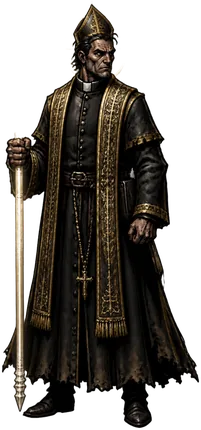
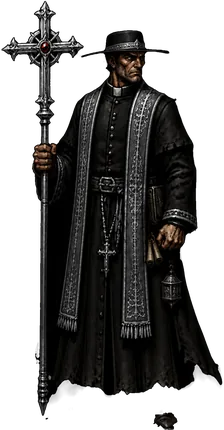
Exorciste : armure palier V repeinte (étole d'argent, reliquaire, sans aura) — tous les paliers V refaits
Claude-Session: https://claude.ai/code/session_01XuxscubMSQPeew8BrSfQGu

diff --git a/index.html b/index.html
@@ -242,7 +242,7 @@ p{margin:6px 0;line-height:1.45}
 <div id="boot"><div class="bootin"><img src="assets/ui_emblem.webp" alt="" onerror="this.remove()"><h1>Couronne de Cendres</h1><div class="bootbar"><i></i></div><div class="boottxt">Les braises s'allument…</div><button class="btn ghost sm" id="bootskip" style="display:none">Continuer sans attendre</button></div></div>
 <div id="toasts" aria-live="polite"></div>
 <script>window.CC_SW = 1;</script><script>
-window.ART_LIST=["bg_abime","bg_bastion","bg_bastion2","bg_bastion_port","bg_bastion_port_src","bg_bourg","bg_catacombes","bg_cimes","bg_citadelle","bg_cite","bg_foret","bg_marais","bg_mines","bg_terres","bg_titre","bg_trone","bg_worldmap","bld_academie","bld_academie_2","bld_academie_3","bld_chapelle","bld_chapelle_2","bld_chapelle_3","bld_fonderie","bld_fonderie_2","bld_fonderie_3","bld_forge","bld_forge_2","bld_forge_3","bld_menagerie","bld_menagerie_2","bld_menagerie_3","bld_porte","bld_taverne","bld_taverne_2","bld_taverne_3","hero_arbaletriere_chasseresse","hero_arbaletriere_t1","hero_arbaletriere_t2","hero_arbaletriere_t3","hero_arbaletriere_t4","hero_arbaletriere_t5","hero_arbaletriere_tireuse_elite","hero_berserker_chef_guerre","hero_berserker_ecorcheur","hero_berserker_t1","hero_berserker_t2","hero_berserker_t3","hero_berserker_t4","hero_berserker_t5","hero_chasseur_sorcieres_purificateur","hero_chasseur_sorcieres_t1","hero_chasseur_sorcieres_t2","hero_chasseur_sorcieres_t3","hero_chasseur_sorcieres_t4","hero_chasseur_sorcieres_t5","hero_chasseur_sorcieres_traqueur","hero_exorciste_confesseur","hero_exorciste_penitent","hero_exorciste_t1","hero_exorciste_t2","hero_exorciste_t3","hero_exorciste_t4","hero_exorciste_t5","hero_gardien_runes_forge_tonnerre","hero_gardien_runes_t1","hero_gardien_runes_t2","hero_gardien_runes_t3","hero_gardien_runes_t4","hero_gardien_runes_t5","hero_gardien_runes_thane_pierre","hero_hallebardier_garde_roi","hero_hallebardier_lansquenet","hero_hallebardier_t1","hero_hallebardier_t2","hero_hallebardier_t3","hero_hallebardier_t4","hero_hallebardier_t5","hero_medecin_peste_apothicaire","hero_medecin_peste_chirurgien","hero_medecin_peste_t1","hero_medecin_peste_t2","hero_medecin_peste_t3","hero_medecin_peste_t4","hero_medecin_peste_t5","hero_menestrel_chantre","hero_menestrel_heraut","hero_menestrel_t1","hero_menestrel_t2","hero_menestrel_t3","hero_menestrel_t4","hero_menestrel_t5","hero_necromancien_liche","hero_necromancien_maitre_tombes","hero_necromancien_t1","hero_necromancien_t2","hero_necromancien_t3","hero_necromancien_t4","hero_necromancien_t5","hero_ombre_assassin","hero_ombre_ombre_sang","hero_ombre_t1","hero_ombre_t2","hero_ombre_t3","hero_ombre_t4","hero_ombre_t5","hero_pretresse_martyre","hero_pretresse_sainte","hero_pretresse_t1","hero_pretresse_t2","hero_pretresse_t3","hero_pretresse_t4","hero_pretresse_t5","hero_pyromancien_archimage","hero_pyromancien_demoniste","hero_pyromancien_t1","hero_pyromancien_t2","hero_pyromancien_t3","hero_pyromancien_t4","hero_pyromancien_t5","hero_revenant_seigneur_sang","hero_revenant_spectre","hero_revenant_t1","hero_revenant_t2","hero_revenant_t3","hero_revenant_t4","hero_revenant_t5","hero_sorciere_druidesse","hero_sorciere_sorciere_noire","hero_sorciere_t1","hero_sorciere_t2","hero_sorciere_t3","hero_sorciere_t4","hero_sorciere_t5","hero_templier_bastion","hero_templier_inquisiteur","hero_templier_t1","hero_templier_t2","hero_templier_t3","hero_templier_t4","hero_templier_t5","map_boss","map_camp","map_combat","map_elite","map_event","map_shop","map_treasure","mon_abbe","mon_alpha","mon_anguille_ombre","mon_araignee","mon_archer","mon_archer_os","mon_archonte_cendres","mon_boucher","mon_bouffon_roi","mon_bourreau","mon_brigand","mon_cardinal","mon_champion_roi","mon_charognard","mon_chauve_souris","mon_chevalier_couronne","mon_chevalier_dechu","mon_chevalier_os","mon_chevaucheur_calcine","mon_chien_cendre","mon_coeur_montagne","mon_colosse_braise","mon_contremaitre","mon_crabe_geant","mon_crapaud","mon_cultiste","mon_devoreur_lumiere","mon_diablotin","mon_docteur","mon_dryade","mon_follet","mon_fondeur_maudit","mon_garde_spectral","mon_gargouille","mon_golem","mon_golem_fer","mon_goule","mon_hallebardier_os","mon_heraut_neant","mon_homme_poisson","mon_horreur","mon_hydre","mon_inquisiteur","mon_jarl_mort","mon_leviathan","mon_liche","mon_loup","mon_loup_givre","mon_matrone_os","mon_mere_noyes","mon_mere_ronces","mon_mineur_possede","mon_moine_flagellant","mon_necrophage","mon_noye","mon_noyee_chantante","mon_oeil","mon_ogre","mon_pecheur","mon_pendu","mon_penitent_ardent","mon_pestifere","mon_pretre_abysses","mon_pretre_suie","mon_prieur","mon_profond","mon_rat","mon_reine_hiver","mon_reine_sabbat","mon_revenant_glace","mon_roi","mon_roi_noye","mon_roi_vide","mon_sangsue","mon_sans_nom","mon_sans_visage","mon_sentinelle_obsidienne","mon_seraphin_dechu","mon_sorcier_givre","mon_sorciere_marais","mon_spectre","mon_spectre_blizzard","mon_squelette","mon_thuriferaire","mon_troll_givre","mon_ver_roche","pet_araignee","pet_araignee_evo","pet_belette","pet_cerf","pet_cerf_evo","pet_chat_noir","pet_chat_noir_evo","pet_chauve_souris","pet_chauve_souris_evo","pet_chouette","pet_chouette_evo","pet_corbeau","pet_corbeau_evo","pet_crapaud","pet_crapaud_evo","pet_drake","pet_drake_evo","pet_feu_follet","pet_feu_follet_evo","pet_gargouille","pet_gargouille_evo","pet_griffon","pet_griffon_evo","pet_loup","pet_loup_evo","pet_molosse","pet_molosse_evo","pet_ours","pet_ours_evo","pet_renard","pet_renard_evo","pet_salamandre","pet_salamandre_evo","pet_sanglier","pet_sanglier_evo","pet_vipere","pet_vipere_evo","por_anselme","por_capitaine","por_maugrin","por_ysolde","tr_amulette_sel","tr_bague_fer","tr_cape_brume","tr_chapelet","tr_cloche_morte","tr_coeur_braise","tr_coeur_roi","tr_couronne_epines","tr_crane_saint","tr_croc_vampire","tr_dent_loup","tr_ecu_brise","tr_fiole_sang","tr_fragment_couronne","tr_gant_bourreau","tr_griffe_ombre","tr_herbe_rare","tr_oeil_abime","tr_oeil_verre","tr_phylactere","tr_pierre_ame","tr_plume_corbeau","tr_relique_aube","tr_sablier","tr_sceau_rouge","ui_aim","ui_amulet","ui_anvil","ui_armor","ui_atlas","ui_axe","ui_back","ui_bag","ui_banner","ui_bark","ui_bell","ui_bird","ui_bless","ui_blood","ui_bolt","ui_bones","ui_book","ui_boom","ui_camp","ui_castle","ui_chain","ui_chapel","ui_charge","ui_chest","ui_claw","ui_cleanse","ui_cloak","ui_coin","ui_crown","ui_cup","ui_curse","ui_dagger","ui_daily","ui_dice","ui_drain","ui_ember","ui_emblem","ui_essence","ui_eye","ui_fang","ui_fear","ui_feather","ui_fire","ui_flames","ui_flare","ui_flask","ui_flee","ui_frost","ui_furnace","ui_gear","ui_gem","ui_ghost","ui_glove","ui_guard","ui_hammer","ui_hand","ui_heal","ui_heart","ui_helm","ui_herb","ui_horn","ui_hourglass","ui_iron","ui_knives","ui_link","ui_lock","ui_lute","ui_mace","ui_map","ui_mark","ui_mask","ui_meteor","ui_moon","ui_music","ui_note","ui_pact","ui_paw","ui_pawn","ui_pierce","ui_pillar","ui_potion","ui_quest","ui_rage","ui_rain","ui_ray","ui_ring","ui_riposte","ui_root","ui_rosary","ui_run","ui_sanct","ui_scroll","ui_scythe","ui_seal","ui_shard","ui_shield","ui_shroud","ui_skull","ui_skullc","ui_smoke","ui_sound","ui_star","ui_stun","ui_sun","ui_sword","ui_swords","ui_tavern","ui_thorn","ui_torch","ui_trap","ui_tree","ui_trophy","ui_vial","ui_wall","ui_weapon","ui_whirl","ui_wind","wpn_arbalete","wpn_baton","wpn_croix","wpn_dagues","wpn_encensoir","wpn_espadon","wpn_faucille","wpn_faux","wpn_grimoire","wpn_hache","wpn_hallebarde","wpn_luth","wpn_marteau","wpn_masse","wpn_rapiere"];window.ART_META={"hero_arbaletriere_chasseresse": 0.019,"hero_arbaletriere_t1": 0.009,"hero_arbaletriere_t2": 0.009,"hero_arbaletriere_t3": 0.007,"hero_arbaletriere_t4": 0.007,"hero_arbaletriere_t5": 0.007,"hero_arbaletriere_tireuse_elite": 0.007,"hero_berserker_chef_guerre": 0.03,"hero_berserker_ecorcheur": 0.007,"hero_berserker_t1": 0.014,"hero_berserker_t2": 0.009,"hero_berserker_t3": 0.009,"hero_berserker_t4": 0.007,"hero_berserker_t5": 0.007,"hero_chasseur_sorcieres_purificateur": 0.056,"hero_chasseur_sorcieres_t1": 0.007,"hero_chasseur_sorcieres_t2": 0.009,"hero_chasseur_sorcieres_t3": 0.007,"hero_chasseur_sorcieres_t4": 0.007,"hero_chasseur_sorcieres_t5": 0.005,"hero_chasseur_sorcieres_traqueur": 0.007,"hero_exorciste_confesseur": 0.005,"hero_exorciste_penitent": 0.028,"hero_exorciste_t1": 0.04,"hero_exorciste_t2": 0.065,"hero_exorciste_t3": 0.074,"hero_exorciste_t4": 0.072,"hero_exorciste_t5": 0.03,"hero_gardien_runes_forge_tonnerre": 0.023,"hero_gardien_runes_t1": 0.014,"hero_gardien_runes_t2": 0.012,"hero_gardien_runes_t3": 0.014,"hero_gardien_runes_t4": 0.014,"hero_gardien_runes_t5": 0.014,"hero_gardien_runes_thane_pierre": 0.014,"hero_hallebardier_garde_roi": 0.016,"hero_hallebardier_lansquenet": 0.028,"hero_hallebardier_t1": 0.012,"hero_hallebardier_t2": 0.012,"hero_hallebardier_t3": 0.012,"hero_hallebardier_t4": 0.021,"hero_hallebardier_t5": 0.014,"hero_medecin_peste_apothicaire": 0.005,"hero_medecin_peste_chirurgien": 0.005,"hero_medecin_peste_t1": 0.007,"hero_medecin_peste_t2": 0.005,"hero_medecin_peste_t3": 0.005,"hero_medecin_peste_t4": 0.005,"hero_medecin_peste_t5": 0.007,"hero_menestrel_chantre": 0.007,"hero_menestrel_heraut": 0.13,"hero_menestrel_t1": 0.007,"hero_menestrel_t2": 0.005,"hero_menestrel_t3": 0.007,"hero_menestrel_t4": 0.012,"hero_menestrel_t5": 0.007,"hero_necromancien_liche": 0.014,"hero_necromancien_maitre_tombes": 0.079,"hero_necromancien_t1": 0.009,"hero_necromancien_t2": 0.016,"hero_necromancien_t3": 0.016,"hero_necromancien_t4": 0.016,"hero_necromancien_t5": 0.005,"hero_ombre_assassin": 0.007,"hero_ombre_ombre_sang": 0.009,"hero_ombre_t1": 0.009,"hero_ombre_t2": 0.009,"hero_ombre_t3": 0.009,"hero_ombre_t4": 0.009,"hero_ombre_t5": 0.007,"hero_pretresse_martyre": 0.102,"hero_pretresse_sainte": 0.07,"hero_pretresse_t1": 0.079,"hero_pretresse_t2": 0.1,"hero_pretresse_t3": 0.121,"hero_pretresse_t4": 0.091,"hero_pretresse_t5": 0.06,"hero_pyromancien_archimage": 0.007,"hero_pyromancien_demoniste": 0.051,"hero_pyromancien_t1": 0.009,"hero_pyromancien_t2": 0.007,"hero_pyromancien_t3": 0.007,"hero_pyromancien_t4": 0.007,"hero_pyromancien_t5": 0.009,"hero_revenant_seigneur_sang": 0.151,"hero_revenant_spectre": 0.114,"hero_revenant_t1": 0.109,"hero_revenant_t2": 0.151,"hero_revenant_t3": 0.156,"hero_revenant_t4": 0.149,"hero_revenant_t5": 0.095,"hero_sorciere_druidesse": 0.051,"hero_sorciere_sorciere_noire": 0.028,"hero_sorciere_t1": 0.007,"hero_sorciere_t2": 0.014,"hero_sorciere_t3": 0.012,"hero_sorciere_t4": 0.009,"hero_sorciere_t5": 0.019,"hero_templier_bastion": 0.021,"hero_templier_inquisiteur": 0.007,"hero_templier_t1": 0.007,"hero_templier_t2": 0.007,"hero_templier_t3": 0.005,"hero_templier_t4": 0.026,"hero_templier_t5": 0.009};window.ART_CX={"hero_arbaletriere_chasseresse":0.413,"hero_arbaletriere_t1":0.377,"hero_arbaletriere_t2":0.376,"hero_arbaletriere_t3":0.379,"hero_arbaletriere_t4":0.353,"hero_arbaletriere_t5":0.43,"hero_arbaletriere_tireuse_elite":0.329,"hero_berserker_ecorcheur":0.532,"hero_berserker_t2":0.538,"hero_chasseur_sorcieres_purificateur":0.444,"hero_chasseur_sorcieres_t1":0.307,"hero_chasseur_sorcieres_t2":0.333,"hero_chasseur_sorcieres_t3":0.335,"hero_chasseur_sorcieres_t4":0.39,"hero_chasseur_sorcieres_t5":0.379,"hero_chasseur_sorcieres_traqueur":0.395,"hero_exorciste_penitent":0.372,"hero_exorciste_t1":0.55,"hero_exorciste_t2":0.551,"hero_exorciste_t4":0.538,"hero_gardien_runes_forge_tonnerre":0.54,"hero_gardien_runes_t1":0.587,"hero_gardien_runes_t3":0.545,"hero_hallebardier_garde_roi":0.441,"hero_hallebardier_lansquenet":0.467,"hero_hallebardier_t1":0.43,"hero_hallebardier_t2":0.433,"hero_hallebardier_t3":0.429,"hero_hallebardier_t4":0.434,"hero_hallebardier_t5":0.463,"hero_medecin_peste_apothicaire":0.446,"hero_medecin_peste_chirurgien":0.447,"hero_medecin_peste_t1":0.447,"hero_medecin_peste_t2":0.453,"hero_medecin_peste_t3":0.446,"hero_medecin_peste_t4":0.463,"hero_menestrel_t1":0.46,"hero_menestrel_t3":0.468,"hero_menestrel_t5":0.432,"hero_necromancien_liche":0.53,"hero_necromancien_maitre_tombes":0.531,"hero_necromancien_t1":0.535,"hero_necromancien_t2":0.565,"hero_necromancien_t3":0.54,"hero_necromancien_t4":0.537,"hero_necromancien_t5":0.533,"hero_ombre_assassin":0.605,"hero_ombre_ombre_sang":0.56,"hero_ombre_t1":0.551,"hero_ombre_t2":0.571,"hero_ombre_t3":0.557,"hero_ombre_t4":0.598,"hero_ombre_t5":0.62,"hero_pretresse_t1":0.538,"hero_pyromancien_demoniste":0.453,"hero_revenant_seigneur_sang":0.376,"hero_revenant_spectre":0.397,"hero_revenant_t1":0.376,"hero_revenant_t2":0.371,"hero_revenant_t3":0.368,"hero_revenant_t4":0.374,"hero_revenant_t5":0.403,"hero_sorciere_druidesse":0.547,"hero_sorciere_t1":0.592,"hero_sorciere_t2":0.605,"hero_sorciere_t3":0.571,"hero_sorciere_t4":0.558,"hero_sorciere_t5":0.603,"hero_templier_inquisiteur":0.47,"hero_templier_t1":0.542,"mon_abbe":0.468,"mon_anguille_ombre":0.538,"mon_araignee":0.463,"mon_archer":0.606,"mon_archer_os":0.392,"mon_boucher":0.538,"mon_bouffon_roi":0.651,"mon_cardinal":0.591,"mon_charognard":0.537,"mon_chauve_souris":0.443,"mon_chevalier_couronne":0.577,"mon_chevalier_dechu":0.587,"mon_chevalier_os":0.538,"mon_chevaucheur_calcine":0.592,"mon_chien_cendre":0.56,"mon_coeur_montagne":0.448,"mon_colosse_braise":0.448,"mon_crapaud":0.537,"mon_cultiste":0.538,"mon_devoreur_lumiere":0.53,"mon_dryade":0.551,"mon_fondeur_maudit":0.619,"mon_garde_spectral":0.627,"mon_goule":0.557,"mon_hallebardier_os":0.609,"mon_heraut_neant":0.633,"mon_homme_poisson":0.683,"mon_inquisiteur":0.457,"mon_jarl_mort":0.458,"mon_loup":0.447,"mon_mere_noyes":0.47,"mon_mineur_possede":0.634,"mon_necrophage":0.553,"mon_noyee_chantante":0.531,"mon_ogre":0.447,"mon_pendu":0.615,"mon_penitent_ardent":0.553,"mon_pestifere":0.653,"mon_profond":0.607,"mon_reine_sabbat":0.465,"mon_revenant_glace":0.607,"mon_roi":0.559,"mon_roi_noye":0.404,"mon_roi_vide":0.56,"mon_sangsue":0.45,"mon_sans_visage":0.551,"mon_sentinelle_obsidienne":0.556,"mon_sorcier_givre":0.61,"mon_sorciere_marais":0.605,"mon_spectre":0.539,"mon_squelette":0.581,"mon_thuriferaire":0.606,"mon_troll_givre":0.587,"mon_ver_roche":0.538,"pet_araignee_evo":0.453,"pet_belette":0.433,"pet_chat_noir":0.463,"pet_chouette":0.559,"pet_corbeau":0.47,"pet_corbeau_evo":0.463,"pet_crapaud":0.437,"pet_crapaud_evo":0.467,"pet_drake":0.453,"pet_griffon":0.557,"pet_griffon_evo":0.557,"pet_loup":0.43,"pet_loup_evo":0.45,"pet_ours_evo":0.463,"pet_renard_evo":0.467,"pet_salamandre":0.47,"pet_sanglier":0.537,"pet_sanglier_evo":0.457,"pet_vipere":0.53};window.ART_FACE={"mon_abbe":[0.412,0.145,0.258],"mon_alpha":[0.1,0.58,0.4],"mon_anguille_ombre":[0.447,0.124,0.27],"mon_araignee":[0.493,0.29,0.429],"mon_archer":[0.541,0.206,0.244],"mon_archer_os":[0.34,0.246,0.224],"mon_archonte_cendres":[0.37,0.22,0.15],"mon_boucher":[0.608,0.176,0.354],"mon_bouffon_roi":[0.478,0.183,0.223],"mon_bourreau":[0.61,0.127,0.268],"mon_brigand":[0.392,0.127,0.268],"mon_cardinal":[0.527,0.178,0.248],"mon_champion_roi":[0.36,0.124,0.27],"mon_charognard":[0.13,0.45,0.28],"mon_chauve_souris":[0.304,0.639,0.561],"mon_chevalier_couronne":[0.538,0.172,0.255],"mon_chevalier_dechu":[0.515,0.196,0.244],"mon_chevalier_os":[0.56,0.136,0.244],"mon_chevaucheur_calcine":[0.58,0.12,0.18],"mon_chien_cendre":[0.203,0.286,0.394],"mon_coeur_montagne":[0.3,0.17,0.22],"mon_colosse_braise":[0.42,0.13,0.2],"mon_contremaitre":[0.533,0.124,0.27],"mon_crabe_geant":[0.45,0.4,0.5],"mon_crapaud":[0.326,0.284,0.586],"mon_cultiste":[0.596,0.127,0.268],"mon_devoreur_lumiere":[0.22,0.2,0.3],"mon_diablotin":[0.25,0.3,0.25],"mon_docteur":[0.465,0.146,0.239],"mon_dryade":[0.468,0.164,0.255],"mon_follet":[0.5,0.6,0.35],"mon_fondeur_maudit":[0.596,0.127,0.269],"mon_garde_spectral":[0.635,0.316,0.208],"mon_gargouille":[0.24,0.36,0.27],"mon_golem":[0.3,0.15,0.24],"mon_golem_fer":[0.553,0.189,0.346],"mon_goule":[0.354,0.119,0.252],"mon_hallebardier_os":[0.531,0.152,0.177],"mon_heraut_neant":[0.565,0.173,0.357],"mon_homme_poisson":[0.585,0.234,0.325],"mon_horreur":[0.476,0.273,0.304],"mon_hydre":[0.365,0.167,0.32],"mon_inquisiteur":[0.422,0.179,0.252],"mon_jarl_mort":[0.22,0.14,0.17],"mon_leviathan":[0.474,0.175,0.352],"mon_liche":[0.503,0.199,0.245],"mon_loup":[0.13,0.47,0.45],"mon_loup_givre":[0.15,0.42,0.4],"mon_matrone_os":[0.536,0.173,0.253],"mon_mere_noyes":[0.463,0.184,0.349],"mon_mere_ronces":[0.465,0.202,0.331],"mon_mineur_possede":[0.491,0.139,0.266],"mon_moine_flagellant":[0.435,0.111,0.233],"mon_necrophage":[0.436,0.127,0.261],"mon_noye":[0.522,0.127,0.268],"mon_noyee_chantante":[0.382,0.13,0.268],"mon_oeil":[0.481,0.152,0.215],"mon_ogre":[0.467,0.167,0.356],"mon_pecheur":[0.488,0.173,0.238],"mon_pendu":[0.338,0.17,0.254],"mon_penitent_ardent":[0.529,0.173,0.251],"mon_pestifere":[0.533,0.133,0.266],"mon_pretre_abysses":[0.551,0.18,0.354],"mon_pretre_suie":[0.488,0.132,0.265],"mon_prieur":[0.499,0.141,0.264],"mon_profond":[0.38,0.2,0.18],"mon_rat":[0.13,0.47,0.5],"mon_reine_hiver":[0.533,0.181,0.205],"mon_reine_sabbat":[0.476,0.188,0.249],"mon_revenant_glace":[0.564,0.172,0.298],"mon_roi":[0.546,0.166,0.253],"mon_roi_noye":[0.416,0.215,0.242],"mon_roi_vide":[0.59,0.199,0.346],"mon_sangsue":[0.264,0.17,0.355],"mon_sans_nom":[0.509,0.213,0.239],"mon_sans_visage":[0.479,0.201,0.343],"mon_sentinelle_obsidienne":[0.562,0.158,0.257],"mon_seraphin_dechu":[0.15,0.15,0.16],"mon_sorcier_givre":[0.468,0.221,0.24],"mon_sorciere_marais":[0.492,0.235,0.235],"mon_spectre":[0.434,0.112,0.237],"mon_spectre_blizzard":[0.3,0.12,0.18],"mon_squelette":[0.436,0.106,0.208],"mon_thuriferaire":[0.588,0.175,0.213],"mon_troll_givre":[0.44,0.2,0.3],"mon_ver_roche":[0.368,0.168,0.358],"pet_araignee":[0.675,0.45,0.442],"pet_araignee_evo":[0.695,0.49,0.464],"pet_belette":[0.753,0.292,0.599],"pet_cerf":[0.778,0.203,0.23],"pet_cerf_evo":[0.72,0.42,0.2],"pet_chat_noir":[0.733,0.327,0.599],"pet_chat_noir_evo":[0.729,0.353,0.453],"pet_chauve_souris":[0.55,0.55,0.4],"pet_chauve_souris_evo":[0.5,0.4,0.4],"pet_chouette":[0.74,0.33,0.25],"pet_chouette_evo":[0.6,0.42,0.18],"pet_corbeau":[0.742,0.152,0.315],"pet_corbeau_evo":[0.733,0.166,0.323],"pet_crapaud":[0.703,0.289,0.581],"pet_crapaud_evo":[0.675,0.31,0.562],"pet_drake":[0.733,0.208,0.331],"pet_drake_evo":[0.731,0.389,0.543],"pet_feu_follet":[0.45,0.52,0.3],"pet_feu_follet_evo":[0.45,0.52,0.25],"pet_gargouille":[0.75,0.32,0.38],"pet_gargouille_evo":[0.74,0.45,0.32],"pet_griffon":[0.84,0.27,0.3],"pet_griffon_evo":[0.84,0.2,0.27],"pet_loup":[0.742,0.248,0.437],"pet_loup_evo":[0.739,0.303,0.588],"pet_molosse":[0.816,0.173,0.352],"pet_molosse_evo":[0.709,0.171,0.354],"pet_ours":[0.729,0.29,0.593],"pet_ours_evo":[0.7,0.284,0.601],"pet_renard":[0.745,0.305,0.588],"pet_renard_evo":[0.69,0.507,0.467],"pet_salamandre":[0.87,0.45,0.45],"pet_salamandre_evo":[0.87,0.45,0.45],"pet_sanglier":[0.84,0.55,0.55],"pet_sanglier_evo":[0.82,0.68,0.5],"pet_vipere":[0.78,0.22,0.28],"pet_vipere_evo":[0.72,0.27,0.3]};window.UI_ATLAS={"c":12,"r":10,"s":96,"n":{"aim":0,"amulet":1,"anvil":2,"armor":3,"axe":4,"back":5,"bag":6,"banner":7,"bark":8,"bell":9,"bird":10,"bless":11,"blood":12,"bolt":13,"bones":14,"book":15,"boom":16,"camp":17,"castle":18,"chain":19,"chapel":20,"charge":21,"chest":22,"claw":23,"cleanse":24,"cloak":25,"coin":26,"crown":27,"cup":28,"curse":29,"dagger":30,"daily":31,"dice":32,"drain":33,"ember":34,"essence":35,"eye":36,"fang":37,"fear":38,"feather":39,"fire":40,"flames":41,"flare":42,"flask":43,"flee":44,"frost":45,"furnace":46,"gear":47,"gem":48,"ghost":49,"glove":50,"guard":51,"hammer":52,"hand":53,"heal":54,"heart":55,"helm":56,"herb":57,"horn":58,"hourglass":59,"iron":60,"knives":61,"link":62,"lock":63,"lute":64,"mace":65,"map":66,"mark":67,"mask":68,"meteor":69,"moon":70,"music":71,"note":72,"pact":73,"paw":74,"pierce":75,"pillar":76,"potion":77,"quest":78,"rage":79,"rain":80,"ray":81,"ring":82,"riposte":83,"root":84,"rosary":85,"run":86,"sanct":87,"scroll":88,"scythe":89,"seal":90,"shard":91,"shield":92,"shroud":93,"skull":94,"skullc":95,"smoke":96,"sound":97,"star":98,"stun":99,"sun":100,"sword":101,"swords":102,"tavern":103,"thorn":104,"torch":105,"trap":106,"tree":107,"trophy":108,"vial":109,"wall":110,"weapon":111,"whirl":112,"wind":113}};window.SFX_LIST=["amb_abime","amb_bastion","amb_bourg","amb_catacombes","amb_cimes","amb_citadelle","amb_cite","amb_foret","amb_marais","amb_mines","amb_terres","amb_trone","fx_bell_1","fx_bleed_1","fx_bleed_2","fx_block_1","fx_block_2","fx_buff_1","fx_click_1","fx_coin_1","fx_coin_2","fx_crit_1","fx_crit_2","fx_dark_1","fx_dark_2","fx_dark_3","fx_debuff_1","fx_debuff_2","fx_die_1","fx_die_2","fx_door_1","fx_door_2","fx_fall_1","fx_fire_1","fx_fire_2","fx_fire_3","fx_forge_1","fx_forge_2","fx_frost_1","fx_frost_2","fx_heal_1","fx_heal_2","fx_heal_3","fx_heal_4","fx_heavy_1","fx_heavy_2","fx_hit_1","fx_hit_2","fx_hit_3","fx_hit_4","fx_holy_1","fx_holy_2","fx_holy_3","fx_level_1","fx_lose_1","fx_miss_1","fx_miss_2","fx_open_1","fx_poison_1","fx_poison_2","fx_shock_1","fx_shock_2","fx_shoot_1","fx_shoot_2","fx_slash_1","fx_slash_2","fx_slash_3","fx_step_1","fx_step_2","fx_step_3","fx_stun_1","fx_ult_1","fx_win_1"];window.ART_FLIP=["mon_archer_os","mon_moine_flagellant","mon_spectre","hero_ombre_assassin","hero_ombre_ombre_sang","mon_cardinal"];
+window.ART_LIST=["bg_abime","bg_bastion","bg_bastion2","bg_bastion_port","bg_bastion_port_src","bg_bourg","bg_catacombes","bg_cimes","bg_citadelle","bg_cite","bg_foret","bg_marais","bg_mines","bg_terres","bg_titre","bg_trone","bg_worldmap","bld_academie","bld_academie_2","bld_academie_3","bld_chapelle","bld_chapelle_2","bld_chapelle_3","bld_fonderie","bld_fonderie_2","bld_fonderie_3","bld_forge","bld_forge_2","bld_forge_3","bld_menagerie","bld_menagerie_2","bld_menagerie_3","bld_porte","bld_taverne","bld_taverne_2","bld_taverne_3","hero_arbaletriere_chasseresse","hero_arbaletriere_t1","hero_arbaletriere_t2","hero_arbaletriere_t3","hero_arbaletriere_t4","hero_arbaletriere_t5","hero_arbaletriere_tireuse_elite","hero_berserker_chef_guerre","hero_berserker_ecorcheur","hero_berserker_t1","hero_berserker_t2","hero_berserker_t3","hero_berserker_t4","hero_berserker_t5","hero_chasseur_sorcieres_purificateur","hero_chasseur_sorcieres_t1","hero_chasseur_sorcieres_t2","hero_chasseur_sorcieres_t3","hero_chasseur_sorcieres_t4","hero_chasseur_sorcieres_t5","hero_chasseur_sorcieres_traqueur","hero_exorciste_confesseur","hero_exorciste_penitent","hero_exorciste_t1","hero_exorciste_t2","hero_exorciste_t3","hero_exorciste_t4","hero_exorciste_t5","hero_gardien_runes_forge_tonnerre","hero_gardien_runes_t1","hero_gardien_runes_t2","hero_gardien_runes_t3","hero_gardien_runes_t4","hero_gardien_runes_t5","hero_gardien_runes_thane_pierre","hero_hallebardier_garde_roi","hero_hallebardier_lansquenet","hero_hallebardier_t1","hero_hallebardier_t2","hero_hallebardier_t3","hero_hallebardier_t4","hero_hallebardier_t5","hero_medecin_peste_apothicaire","hero_medecin_peste_chirurgien","hero_medecin_peste_t1","hero_medecin_peste_t2","hero_medecin_peste_t3","hero_medecin_peste_t4","hero_medecin_peste_t5","hero_menestrel_chantre","hero_menestrel_heraut","hero_menestrel_t1","hero_menestrel_t2","hero_menestrel_t3","hero_menestrel_t4","hero_menestrel_t5","hero_necromancien_liche","hero_necromancien_maitre_tombes","hero_necromancien_t1","hero_necromancien_t2","hero_necromancien_t3","hero_necromancien_t4","hero_necromancien_t5","hero_ombre_assassin","hero_ombre_ombre_sang","hero_ombre_t1","hero_ombre_t2","hero_ombre_t3","hero_ombre_t4","hero_ombre_t5","hero_pretresse_martyre","hero_pretresse_sainte","hero_pretresse_t1","hero_pretresse_t2","hero_pretresse_t3","hero_pretresse_t4","hero_pretresse_t5","hero_pyromancien_archimage","hero_pyromancien_demoniste","hero_pyromancien_t1","hero_pyromancien_t2","hero_pyromancien_t3","hero_pyromancien_t4","hero_pyromancien_t5","hero_revenant_seigneur_sang","hero_revenant_spectre","hero_revenant_t1","hero_revenant_t2","hero_revenant_t3","hero_revenant_t4","hero_revenant_t5","hero_sorciere_druidesse","hero_sorciere_sorciere_noire","hero_sorciere_t1","hero_sorciere_t2","hero_sorciere_t3","hero_sorciere_t4","hero_sorciere_t5","hero_templier_bastion","hero_templier_inquisiteur","hero_templier_t1","hero_templier_t2","hero_templier_t3","hero_templier_t4","hero_templier_t5","map_boss","map_camp","map_combat","map_elite","map_event","map_shop","map_treasure","mon_abbe","mon_alpha","mon_anguille_ombre","mon_araignee","mon_archer","mon_archer_os","mon_archonte_cendres","mon_boucher","mon_bouffon_roi","mon_bourreau","mon_brigand","mon_cardinal","mon_champion_roi","mon_charognard","mon_chauve_souris","mon_chevalier_couronne","mon_chevalier_dechu","mon_chevalier_os","mon_chevaucheur_calcine","mon_chien_cendre","mon_coeur_montagne","mon_colosse_braise","mon_contremaitre","mon_crabe_geant","mon_crapaud","mon_cultiste","mon_devoreur_lumiere","mon_diablotin","mon_docteur","mon_dryade","mon_follet","mon_fondeur_maudit","mon_garde_spectral","mon_gargouille","mon_golem","mon_golem_fer","mon_goule","mon_hallebardier_os","mon_heraut_neant","mon_homme_poisson","mon_horreur","mon_hydre","mon_inquisiteur","mon_jarl_mort","mon_leviathan","mon_liche","mon_loup","mon_loup_givre","mon_matrone_os","mon_mere_noyes","mon_mere_ronces","mon_mineur_possede","mon_moine_flagellant","mon_necrophage","mon_noye","mon_noyee_chantante","mon_oeil","mon_ogre","mon_pecheur","mon_pendu","mon_penitent_ardent","mon_pestifere","mon_pretre_abysses","mon_pretre_suie","mon_prieur","mon_profond","mon_rat","mon_reine_hiver","mon_reine_sabbat","mon_revenant_glace","mon_roi","mon_roi_noye","mon_roi_vide","mon_sangsue","mon_sans_nom","mon_sans_visage","mon_sentinelle_obsidienne","mon_seraphin_dechu","mon_sorcier_givre","mon_sorciere_marais","mon_spectre","mon_spectre_blizzard","mon_squelette","mon_thuriferaire","mon_troll_givre","mon_ver_roche","pet_araignee","pet_araignee_evo","pet_belette","pet_cerf","pet_cerf_evo","pet_chat_noir","pet_chat_noir_evo","pet_chauve_souris","pet_chauve_souris_evo","pet_chouette","pet_chouette_evo","pet_corbeau","pet_corbeau_evo","pet_crapaud","pet_crapaud_evo","pet_drake","pet_drake_evo","pet_feu_follet","pet_feu_follet_evo","pet_gargouille","pet_gargouille_evo","pet_griffon","pet_griffon_evo","pet_loup","pet_loup_evo","pet_molosse","pet_molosse_evo","pet_ours","pet_ours_evo","pet_renard","pet_renard_evo","pet_salamandre","pet_salamandre_evo","pet_sanglier","pet_sanglier_evo","pet_vipere","pet_vipere_evo","por_anselme","por_capitaine","por_maugrin","por_ysolde","tr_amulette_sel","tr_bague_fer","tr_cape_brume","tr_chapelet","tr_cloche_morte","tr_coeur_braise","tr_coeur_roi","tr_couronne_epines","tr_crane_saint","tr_croc_vampire","tr_dent_loup","tr_ecu_brise","tr_fiole_sang","tr_fragment_couronne","tr_gant_bourreau","tr_griffe_ombre","tr_herbe_rare","tr_oeil_abime","tr_oeil_verre","tr_phylactere","tr_pierre_ame","tr_plume_corbeau","tr_relique_aube","tr_sablier","tr_sceau_rouge","ui_aim","ui_amulet","ui_anvil","ui_armor","ui_atlas","ui_axe","ui_back","ui_bag","ui_banner","ui_bark","ui_bell","ui_bird","ui_bless","ui_blood","ui_bolt","ui_bones","ui_book","ui_boom","ui_camp","ui_castle","ui_chain","ui_chapel","ui_charge","ui_chest","ui_claw","ui_cleanse","ui_cloak","ui_coin","ui_crown","ui_cup","ui_curse","ui_dagger","ui_daily","ui_dice","ui_drain","ui_ember","ui_emblem","ui_essence","ui_eye","ui_fang","ui_fear","ui_feather","ui_fire","ui_flames","ui_flare","ui_flask","ui_flee","ui_frost","ui_furnace","ui_gear","ui_gem","ui_ghost","ui_glove","ui_guard","ui_hammer","ui_hand","ui_heal","ui_heart","ui_helm","ui_herb","ui_horn","ui_hourglass","ui_iron","ui_knives","ui_link","ui_lock","ui_lute","ui_mace","ui_map","ui_mark","ui_mask","ui_meteor","ui_moon","ui_music","ui_note","ui_pact","ui_paw","ui_pawn","ui_pierce","ui_pillar","ui_potion","ui_quest","ui_rage","ui_rain","ui_ray","ui_ring","ui_riposte","ui_root","ui_rosary","ui_run","ui_sanct","ui_scroll","ui_scythe","ui_seal","ui_shard","ui_shield","ui_shroud","ui_skull","ui_skullc","ui_smoke","ui_sound","ui_star","ui_stun","ui_sun","ui_sword","ui_swords","ui_tavern","ui_thorn","ui_torch","ui_trap","ui_tree","ui_trophy","ui_vial","ui_wall","ui_weapon","ui_whirl","ui_wind","wpn_arbalete","wpn_baton","wpn_croix","wpn_dagues","wpn_encensoir","wpn_espadon","wpn_faucille","wpn_faux","wpn_grimoire","wpn_hache","wpn_hallebarde","wpn_luth","wpn_marteau","wpn_masse","wpn_rapiere"];window.ART_META={"hero_arbaletriere_chasseresse": 0.019,"hero_arbaletriere_t1": 0.009,"hero_arbaletriere_t2": 0.009,"hero_arbaletriere_t3": 0.007,"hero_arbaletriere_t4": 0.007,"hero_arbaletriere_t5": 0.007,"hero_arbaletriere_tireuse_elite": 0.007,"hero_berserker_chef_guerre": 0.03,"hero_berserker_ecorcheur": 0.007,"hero_berserker_t1": 0.014,"hero_berserker_t2": 0.009,"hero_berserker_t3": 0.009,"hero_berserker_t4": 0.007,"hero_berserker_t5": 0.007,"hero_chasseur_sorcieres_purificateur": 0.056,"hero_chasseur_sorcieres_t1": 0.007,"hero_chasseur_sorcieres_t2": 0.009,"hero_chasseur_sorcieres_t3": 0.007,"hero_chasseur_sorcieres_t4": 0.007,"hero_chasseur_sorcieres_t5": 0.005,"hero_chasseur_sorcieres_traqueur": 0.007,"hero_exorciste_confesseur": 0.005,"hero_exorciste_penitent": 0.028,"hero_exorciste_t1": 0.04,"hero_exorciste_t2": 0.065,"hero_exorciste_t3": 0.074,"hero_exorciste_t4": 0.072,"hero_exorciste_t5": 0.072,"hero_gardien_runes_forge_tonnerre": 0.023,"hero_gardien_runes_t1": 0.014,"hero_gardien_runes_t2": 0.012,"hero_gardien_runes_t3": 0.014,"hero_gardien_runes_t4": 0.014,"hero_gardien_runes_t5": 0.014,"hero_gardien_runes_thane_pierre": 0.014,"hero_hallebardier_garde_roi": 0.016,"hero_hallebardier_lansquenet": 0.028,"hero_hallebardier_t1": 0.012,"hero_hallebardier_t2": 0.012,"hero_hallebardier_t3": 0.012,"hero_hallebardier_t4": 0.021,"hero_hallebardier_t5": 0.014,"hero_medecin_peste_apothicaire": 0.005,"hero_medecin_peste_chirurgien": 0.005,"hero_medecin_peste_t1": 0.007,"hero_medecin_peste_t2": 0.005,"hero_medecin_peste_t3": 0.005,"hero_medecin_peste_t4": 0.005,"hero_medecin_peste_t5": 0.007,"hero_menestrel_chantre": 0.007,"hero_menestrel_heraut": 0.13,"hero_menestrel_t1": 0.007,"hero_menestrel_t2": 0.005,"hero_menestrel_t3": 0.007,"hero_menestrel_t4": 0.012,"hero_menestrel_t5": 0.007,"hero_necromancien_liche": 0.014,"hero_necromancien_maitre_tombes": 0.079,"hero_necromancien_t1": 0.009,"hero_necromancien_t2": 0.016,"hero_necromancien_t3": 0.016,"hero_necromancien_t4": 0.016,"hero_necromancien_t5": 0.005,"hero_ombre_assassin": 0.007,"hero_ombre_ombre_sang": 0.009,"hero_ombre_t1": 0.009,"hero_ombre_t2": 0.009,"hero_ombre_t3": 0.009,"hero_ombre_t4": 0.009,"hero_ombre_t5": 0.007,"hero_pretresse_martyre": 0.102,"hero_pretresse_sainte": 0.07,"hero_pretresse_t1": 0.079,"hero_pretresse_t2": 0.1,"hero_pretresse_t3": 0.121,"hero_pretresse_t4": 0.091,"hero_pretresse_t5": 0.06,"hero_pyromancien_archimage": 0.007,"hero_pyromancien_demoniste": 0.051,"hero_pyromancien_t1": 0.009,"hero_pyromancien_t2": 0.007,"hero_pyromancien_t3": 0.007,"hero_pyromancien_t4": 0.007,"hero_pyromancien_t5": 0.009,"hero_revenant_seigneur_sang": 0.151,"hero_revenant_spectre": 0.114,"hero_revenant_t1": 0.109,"hero_revenant_t2": 0.151,"hero_revenant_t3": 0.156,"hero_revenant_t4": 0.149,"hero_revenant_t5": 0.095,"hero_sorciere_druidesse": 0.051,"hero_sorciere_sorciere_noire": 0.028,"hero_sorciere_t1": 0.007,"hero_sorciere_t2": 0.014,"hero_sorciere_t3": 0.012,"hero_sorciere_t4": 0.009,"hero_sorciere_t5": 0.019,"hero_templier_bastion": 0.021,"hero_templier_inquisiteur": 0.007,"hero_templier_t1": 0.007,"hero_templier_t2": 0.007,"hero_templier_t3": 0.005,"hero_templier_t4": 0.026,"hero_templier_t5": 0.009};window.ART_CX={"hero_arbaletriere_chasseresse":0.413,"hero_arbaletriere_t1":0.377,"hero_arbaletriere_t2":0.376,"hero_arbaletriere_t3":0.379,"hero_arbaletriere_t4":0.353,"hero_arbaletriere_t5":0.43,"hero_arbaletriere_tireuse_elite":0.329,"hero_berserker_ecorcheur":0.532,"hero_berserker_t2":0.538,"hero_chasseur_sorcieres_purificateur":0.444,"hero_chasseur_sorcieres_t1":0.307,"hero_chasseur_sorcieres_t2":0.333,"hero_chasseur_sorcieres_t3":0.335,"hero_chasseur_sorcieres_t4":0.39,"hero_chasseur_sorcieres_t5":0.379,"hero_chasseur_sorcieres_traqueur":0.395,"hero_exorciste_penitent":0.372,"hero_exorciste_t1":0.55,"hero_exorciste_t2":0.551,"hero_exorciste_t4":0.538,"hero_gardien_runes_forge_tonnerre":0.54,"hero_gardien_runes_t1":0.587,"hero_gardien_runes_t3":0.545,"hero_hallebardier_garde_roi":0.441,"hero_hallebardier_lansquenet":0.467,"hero_hallebardier_t1":0.43,"hero_hallebardier_t2":0.433,"hero_hallebardier_t3":0.429,"hero_hallebardier_t4":0.434,"hero_hallebardier_t5":0.463,"hero_medecin_peste_apothicaire":0.446,"hero_medecin_peste_chirurgien":0.447,"hero_medecin_peste_t1":0.447,"hero_medecin_peste_t2":0.453,"hero_medecin_peste_t3":0.446,"hero_medecin_peste_t4":0.463,"hero_menestrel_t1":0.46,"hero_menestrel_t3":0.468,"hero_menestrel_t5":0.432,"hero_necromancien_liche":0.53,"hero_necromancien_maitre_tombes":0.531,"hero_necromancien_t1":0.535,"hero_necromancien_t2":0.565,"hero_necromancien_t3":0.54,"hero_necromancien_t4":0.537,"hero_necromancien_t5":0.533,"hero_ombre_assassin":0.605,"hero_ombre_ombre_sang":0.56,"hero_ombre_t1":0.551,"hero_ombre_t2":0.571,"hero_ombre_t3":0.557,"hero_ombre_t4":0.598,"hero_ombre_t5":0.62,"hero_pretresse_t1":0.538,"hero_pyromancien_demoniste":0.453,"hero_revenant_seigneur_sang":0.376,"hero_revenant_spectre":0.397,"hero_revenant_t1":0.376,"hero_revenant_t2":0.371,"hero_revenant_t3":0.368,"hero_revenant_t4":0.374,"hero_revenant_t5":0.403,"hero_sorciere_druidesse":0.547,"hero_sorciere_t1":0.592,"hero_sorciere_t2":0.605,"hero_sorciere_t3":0.571,"hero_sorciere_t4":0.558,"hero_sorciere_t5":0.603,"hero_templier_inquisiteur":0.47,"hero_templier_t1":0.542,"mon_abbe":0.468,"mon_anguille_ombre":0.538,"mon_araignee":0.463,"mon_archer":0.606,"mon_archer_os":0.392,"mon_boucher":0.538,"mon_bouffon_roi":0.651,"mon_cardinal":0.591,"mon_charognard":0.537,"mon_chauve_souris":0.443,"mon_chevalier_couronne":0.577,"mon_chevalier_dechu":0.587,"mon_chevalier_os":0.538,"mon_chevaucheur_calcine":0.592,"mon_chien_cendre":0.56,"mon_coeur_montagne":0.448,"mon_colosse_braise":0.448,"mon_crapaud":0.537,"mon_cultiste":0.538,"mon_devoreur_lumiere":0.53,"mon_dryade":0.551,"mon_fondeur_maudit":0.619,"mon_garde_spectral":0.627,"mon_goule":0.557,"mon_hallebardier_os":0.609,"mon_heraut_neant":0.633,"mon_homme_poisson":0.683,"mon_inquisiteur":0.457,"mon_jarl_mort":0.458,"mon_loup":0.447,"mon_mere_noyes":0.47,"mon_mineur_possede":0.634,"mon_necrophage":0.553,"mon_noyee_chantante":0.531,"mon_ogre":0.447,"mon_pendu":0.615,"mon_penitent_ardent":0.553,"mon_pestifere":0.653,"mon_profond":0.607,"mon_reine_sabbat":0.465,"mon_revenant_glace":0.607,"mon_roi":0.559,"mon_roi_noye":0.404,"mon_roi_vide":0.56,"mon_sangsue":0.45,"mon_sans_visage":0.551,"mon_sentinelle_obsidienne":0.556,"mon_sorcier_givre":0.61,"mon_sorciere_marais":0.605,"mon_spectre":0.539,"mon_squelette":0.581,"mon_thuriferaire":0.606,"mon_troll_givre":0.587,"mon_ver_roche":0.538,"pet_araignee_evo":0.453,"pet_belette":0.433,"pet_chat_noir":0.463,"pet_chouette":0.559,"pet_corbeau":0.47,"pet_corbeau_evo":0.463,"pet_crapaud":0.437,"pet_crapaud_evo":0.467,"pet_drake":0.453,"pet_griffon":0.557,"pet_griffon_evo":0.557,"pet_loup":0.43,"pet_loup_evo":0.45,"pet_ours_evo":0.463,"pet_renard_evo":0.467,"pet_salamandre":0.47,"pet_sanglier":0.537,"pet_sanglier_evo":0.457,"pet_vipere":0.53};window.ART_FACE={"mon_abbe":[0.412,0.145,0.258],"mon_alpha":[0.1,0.58,0.4],"mon_anguille_ombre":[0.447,0.124,0.27],"mon_araignee":[0.493,0.29,0.429],"mon_archer":[0.541,0.206,0.244],"mon_archer_os":[0.34,0.246,0.224],"mon_archonte_cendres":[0.37,0.22,0.15],"mon_boucher":[0.608,0.176,0.354],"mon_bouffon_roi":[0.478,0.183,0.223],"mon_bourreau":[0.61,0.127,0.268],"mon_brigand":[0.392,0.127,0.268],"mon_cardinal":[0.527,0.178,0.248],"mon_champion_roi":[0.36,0.124,0.27],"mon_charognard":[0.13,0.45,0.28],"mon_chauve_souris":[0.304,0.639,0.561],"mon_chevalier_couronne":[0.538,0.172,0.255],"mon_chevalier_dechu":[0.515,0.196,0.244],"mon_chevalier_os":[0.56,0.136,0.244],"mon_chevaucheur_calcine":[0.58,0.12,0.18],"mon_chien_cendre":[0.203,0.286,0.394],"mon_coeur_montagne":[0.3,0.17,0.22],"mon_colosse_braise":[0.42,0.13,0.2],"mon_contremaitre":[0.533,0.124,0.27],"mon_crabe_geant":[0.45,0.4,0.5],"mon_crapaud":[0.326,0.284,0.586],"mon_cultiste":[0.596,0.127,0.268],"mon_devoreur_lumiere":[0.22,0.2,0.3],"mon_diablotin":[0.25,0.3,0.25],"mon_docteur":[0.465,0.146,0.239],"mon_dryade":[0.468,0.164,0.255],"mon_follet":[0.5,0.6,0.35],"mon_fondeur_maudit":[0.596,0.127,0.269],"mon_garde_spectral":[0.635,0.316,0.208],"mon_gargouille":[0.24,0.36,0.27],"mon_golem":[0.3,0.15,0.24],"mon_golem_fer":[0.553,0.189,0.346],"mon_goule":[0.354,0.119,0.252],"mon_hallebardier_os":[0.531,0.152,0.177],"mon_heraut_neant":[0.565,0.173,0.357],"mon_homme_poisson":[0.585,0.234,0.325],"mon_horreur":[0.476,0.273,0.304],"mon_hydre":[0.365,0.167,0.32],"mon_inquisiteur":[0.422,0.179,0.252],"mon_jarl_mort":[0.22,0.14,0.17],"mon_leviathan":[0.474,0.175,0.352],"mon_liche":[0.503,0.199,0.245],"mon_loup":[0.13,0.47,0.45],"mon_loup_givre":[0.15,0.42,0.4],"mon_matrone_os":[0.536,0.173,0.253],"mon_mere_noyes":[0.463,0.184,0.349],"mon_mere_ronces":[0.465,0.202,0.331],"mon_mineur_possede":[0.491,0.139,0.266],"mon_moine_flagellant":[0.435,0.111,0.233],"mon_necrophage":[0.436,0.127,0.261],"mon_noye":[0.522,0.127,0.268],"mon_noyee_chantante":[0.382,0.13,0.268],"mon_oeil":[0.481,0.152,0.215],"mon_ogre":[0.467,0.167,0.356],"mon_pecheur":[0.488,0.173,0.238],"mon_pendu":[0.338,0.17,0.254],"mon_penitent_ardent":[0.529,0.173,0.251],"mon_pestifere":[0.533,0.133,0.266],"mon_pretre_abysses":[0.551,0.18,0.354],"mon_pretre_suie":[0.488,0.132,0.265],"mon_prieur":[0.499,0.141,0.264],"mon_profond":[0.38,0.2,0.18],"mon_rat":[0.13,0.47,0.5],"mon_reine_hiver":[0.533,0.181,0.205],"mon_reine_sabbat":[0.476,0.188,0.249],"mon_revenant_glace":[0.564,0.172,0.298],"mon_roi":[0.546,0.166,0.253],"mon_roi_noye":[0.416,0.215,0.242],"mon_roi_vide":[0.59,0.199,0.346],"mon_sangsue":[0.264,0.17,0.355],"mon_sans_nom":[0.509,0.213,0.239],"mon_sans_visage":[0.479,0.201,0.343],"mon_sentinelle_obsidienne":[0.562,0.158,0.257],"mon_seraphin_dechu":[0.15,0.15,0.16],"mon_sorcier_givre":[0.468,0.221,0.24],"mon_sorciere_marais":[0.492,0.235,0.235],"mon_spectre":[0.434,0.112,0.237],"mon_spectre_blizzard":[0.3,0.12,0.18],"mon_squelette":[0.436,0.106,0.208],"mon_thuriferaire":[0.588,0.175,0.213],"mon_troll_givre":[0.44,0.2,0.3],"mon_ver_roche":[0.368,0.168,0.358],"pet_araignee":[0.675,0.45,0.442],"pet_araignee_evo":[0.695,0.49,0.464],"pet_belette":[0.753,0.292,0.599],"pet_cerf":[0.778,0.203,0.23],"pet_cerf_evo":[0.72,0.42,0.2],"pet_chat_noir":[0.733,0.327,0.599],"pet_chat_noir_evo":[0.729,0.353,0.453],"pet_chauve_souris":[0.55,0.55,0.4],"pet_chauve_souris_evo":[0.5,0.4,0.4],"pet_chouette":[0.74,0.33,0.25],"pet_chouette_evo":[0.6,0.42,0.18],"pet_corbeau":[0.742,0.152,0.315],"pet_corbeau_evo":[0.733,0.166,0.323],"pet_crapaud":[0.703,0.289,0.581],"pet_crapaud_evo":[0.675,0.31,0.562],"pet_drake":[0.733,0.208,0.331],"pet_drake_evo":[0.731,0.389,0.543],"pet_feu_follet":[0.45,0.52,0.3],"pet_feu_follet_evo":[0.45,0.52,0.25],"pet_gargouille":[0.75,0.32,0.38],"pet_gargouille_evo":[0.74,0.45,0.32],"pet_griffon":[0.84,0.27,0.3],"pet_griffon_evo":[0.84,0.2,0.27],"pet_loup":[0.742,0.248,0.437],"pet_loup_evo":[0.739,0.303,0.588],"pet_molosse":[0.816,0.173,0.352],"pet_molosse_evo":[0.709,0.171,0.354],"pet_ours":[0.729,0.29,0.593],"pet_ours_evo":[0.7,0.284,0.601],"pet_renard":[0.745,0.305,0.588],"pet_renard_evo":[0.69,0.507,0.467],"pet_salamandre":[0.87,0.45,0.45],"pet_salamandre_evo":[0.87,0.45,0.45],"pet_sanglier":[0.84,0.55,0.55],"pet_sanglier_evo":[0.82,0.68,0.5],"pet_vipere":[0.78,0.22,0.28],"pet_vipere_evo":[0.72,0.27,0.3]};window.UI_ATLAS={"c":12,"r":10,"s":96,"n":{"aim":0,"amulet":1,"anvil":2,"armor":3,"axe":4,"back":5,"bag":6,"banner":7,"bark":8,"bell":9,"bird":10,"bless":11,"blood":12,"bolt":13,"bones":14,"book":15,"boom":16,"camp":17,"castle":18,"chain":19,"chapel":20,"charge":21,"chest":22,"claw":23,"cleanse":24,"cloak":25,"coin":26,"crown":27,"cup":28,"curse":29,"dagger":30,"daily":31,"dice":32,"drain":33,"ember":34,"essence":35,"eye":36,"fang":37,"fear":38,"feather":39,"fire":40,"flames":41,"flare":42,"flask":43,"flee":44,"frost":45,"furnace":46,"gear":47,"gem":48,"ghost":49,"glove":50,"guard":51,"hammer":52,"hand":53,"heal":54,"heart":55,"helm":56,"herb":57,"horn":58,"hourglass":59,"iron":60,"knives":61,"link":62,"lock":63,"lute":64,"mace":65,"map":66,"mark":67,"mask":68,"meteor":69,"moon":70,"music":71,"note":72,"pact":73,"paw":74,"pierce":75,"pillar":76,"potion":77,"quest":78,"rage":79,"rain":80,"ray":81,"ring":82,"riposte":83,"root":84,"rosary":85,"run":86,"sanct":87,"scroll":88,"scythe":89,"seal":90,"shard":91,"shield":92,"shroud":93,"skull":94,"skullc":95,"smoke":96,"sound":97,"star":98,"stun":99,"sun":100,"sword":101,"swords":102,"tavern":103,"thorn":104,"torch":105,"trap":106,"tree":107,"trophy":108,"vial":109,"wall":110,"weapon":111,"whirl":112,"wind":113}};window.SFX_LIST=["amb_abime","amb_bastion","amb_bourg","amb_catacombes","amb_cimes","amb_citadelle","amb_cite","amb_foret","amb_marais","amb_mines","amb_terres","amb_trone","fx_bell_1","fx_bleed_1","fx_bleed_2","fx_block_1","fx_block_2","fx_buff_1","fx_click_1","fx_coin_1","fx_coin_2","fx_crit_1","fx_crit_2","fx_dark_1","fx_dark_2","fx_dark_3","fx_debuff_1","fx_debuff_2","fx_die_1","fx_die_2","fx_door_1","fx_door_2","fx_fall_1","fx_fire_1","fx_fire_2","fx_fire_3","fx_forge_1","fx_forge_2","fx_frost_1","fx_frost_2","fx_heal_1","fx_heal_2","fx_heal_3","fx_heal_4","fx_heavy_1","fx_heavy_2","fx_hit_1","fx_hit_2","fx_hit_3","fx_hit_4","fx_holy_1","fx_holy_2","fx_holy_3","fx_level_1","fx_lose_1","fx_miss_1","fx_miss_2","fx_open_1","fx_poison_1","fx_poison_2","fx_shock_1","fx_shock_2","fx_shoot_1","fx_shoot_2","fx_slash_1","fx_slash_2","fx_slash_3","fx_step_1","fx_step_2","fx_step_3","fx_stun_1","fx_ult_1","fx_win_1"];window.ART_FLIP=["mon_archer_os","mon_moine_flagellant","mon_spectre","hero_ombre_assassin","hero_ombre_ombre_sang","mon_cardinal"];
 /* ═══════════════════════ Couronne de Cendres — utilitaires ═══════════════════════ */
 "use strict";
 const HASWIN = typeof window !== "undefined" && typeof document !== "undefined";

diff --git a/sw.js b/sw.js
@@ -1,5 +1,5 @@
 /* Service worker : le jeu fonctionne hors connexion une fois installé. */
-const CACHE = "couronne-cendres-a915309ec1", ART_CACHE = "couronne-cendres-art-c27e005e";
+const CACHE = "couronne-cendres-afcfde37db", ART_CACHE = "couronne-cendres-art-08e1ace4";
 const SHELL = ["./", "./index.html", "./manifest.webmanifest", "./icon-192.png", "./icon-512.png", "./icon-maskable-512.png", "./apple-touch-icon.png", "./favicon-64.png"];
 self.addEventListener("install", e => { e.waitUntil(caches.open(CACHE).then(c => c.addAll(SHELL)).then(() => self.skipWaiting())); });
 self.addEventListener("activate", e => { e.waitUntil(caches.keys().then(ks => Promise.all(ks.filter(k => k !== CACHE && k !== ART_CACHE).map(k => caches.delete(k)))).then(() => self.clients.claim())); });
